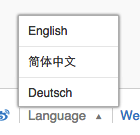
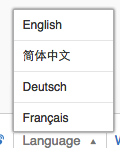
Update i18n

diff --git a/en-US/features/i18n.md b/en-US/features/i18n.md
@@ -9,6 +9,14 @@ Gogs starts support multiple languages feature since release `v0.5.0`, and it's 
 
 ![](/docs/images/lang_opt.png)
 
+To enable them in the `custom/conf/app/ini`:
+
+```
+[i18n]
+LANGS = en-US,zh-CN,de-DE,fr-CA
+NAMES = English,简体中文,Deutsch,Français
+```
+
 ## Contribute Translation
 
 All locale files are stored in directory `conf/locale`, there are all built-in, you don't need to rebuild Gogs or anything to change the interface language. 

diff --git a/zh-CN/intro/change_log.md b/zh-CN/intro/change_log.md
@@ -19,6 +19,7 @@ sort: 1
 #### 功能改进
 
 - Git 版本要求降低为 1.7.1 [#476](https://github.com/gogits/gogs/issues/476)
+- 增加法语支持 [#479](https://github.com/gogits/gogs/pull/479)
 
 #### 其它变更
 

diff --git a/en-US/intro/change_log.md b/en-US/intro/change_log.md
@@ -19,6 +19,7 @@ sort: 1
 #### Improvement
 
 - Downgrade Git requirement to 1.7.1 [#476](https://github.com/gogits/gogs/issues/476)
+- Add French translation [#479](https://github.com/gogits/gogs/pull/479)
 
 #### Other
 
